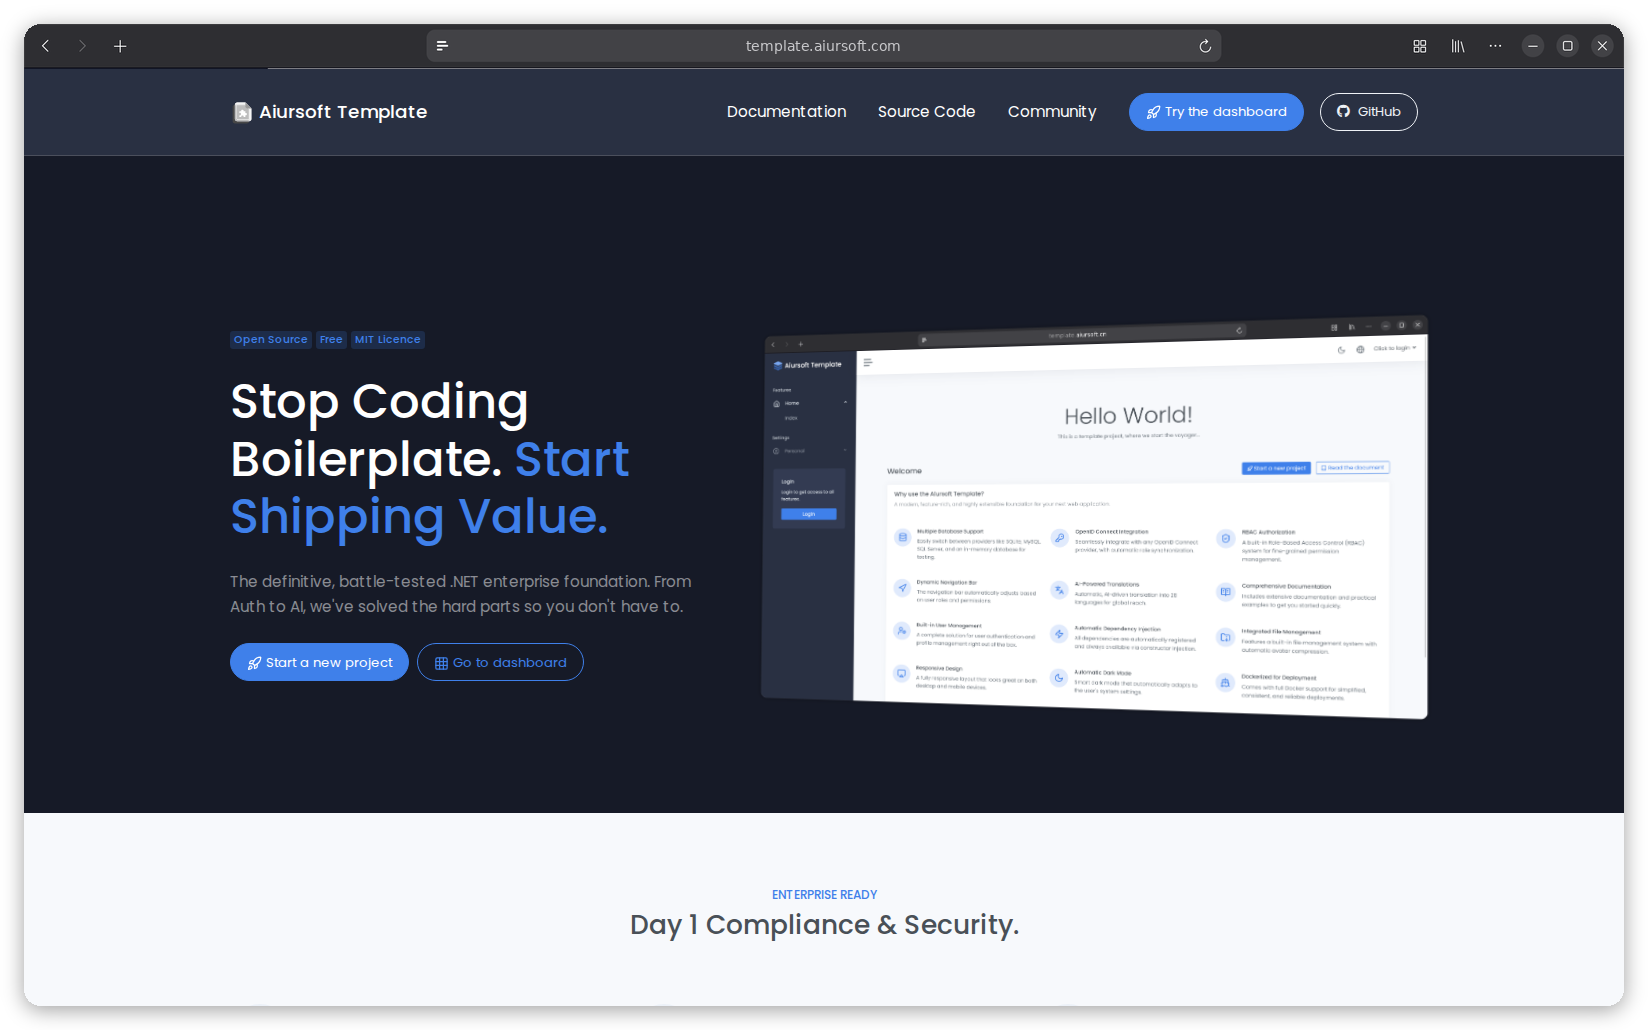
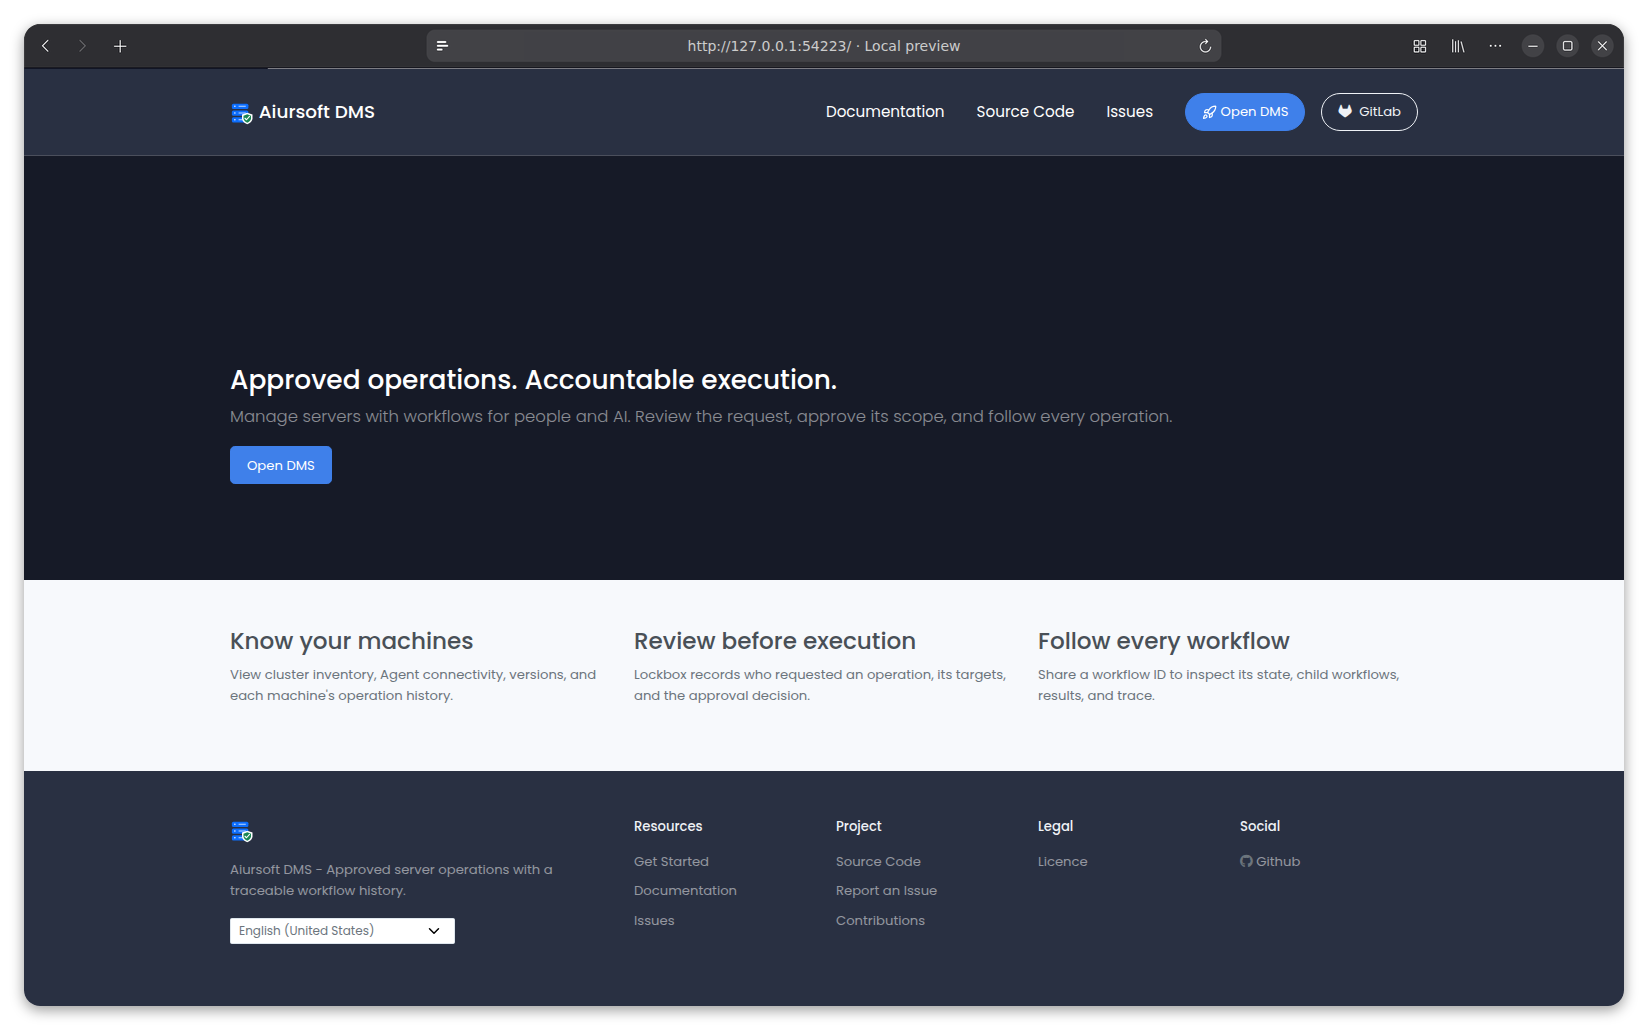
Align DMS documentation and branding with ASP.NET projects

diff --git a/src/Aiursoft.DMS/Configuration/SettingsMap.cs b/src/Aiursoft.DMS/Configuration/SettingsMap.cs
@@ -28,7 +28,7 @@ public class SettingsMap
             Name = Localizer["Project Name"],
             Description = Localizer["The name of the project displayed in the frontend."],
             Type = SettingType.Text,
-            DefaultValue = "Aiursoft Template"
+            DefaultValue = "Aiursoft DMS"
         },
         new GlobalSettingDefinition
         {

diff --git a/src/Aiursoft.DMS/Views/Shared/Components/MarketingNavbar/MarketingNavbarViewModel.cs b/src/Aiursoft.DMS/Views/Shared/Components/MarketingNavbar/MarketingNavbarViewModel.cs
@@ -2,6 +2,6 @@ namespace Aiursoft.DMS.Views.Shared.Components.MarketingNavbar;
 
 public class MarketingNavbarViewModel
 {
-    public string ProjectName { get; set; } = "Aiursoft Template";
+    public string ProjectName { get; set; } = "Aiursoft DMS";
     public string LogoUrl { get; set; } = "/logo.svg";
 }

diff --git a/README.md b/README.md
@@ -1,52 +1,94 @@
 # DMS
 
-Approved server operations for humans and AI. A Controller manages inventory, Lockbox approvals and workflow history. Linux Agents connect outward over WebSocket; managed machines need no SSH service or internet access.
+[![MIT licensed](https://img.shields.io/badge/license-MIT-blue.svg)](./LICENSE)
+[![Pipeline stat](https://badge-proxy.aiursoft.com/aiursoft/dms/badges/master/pipeline.svg)](https://gitlab.aiursoft.com/aiursoft/dms/-/pipelines)
+[![Test Coverage](https://badge-proxy.aiursoft.com/aiursoft/dms/badges/master/coverage.svg)](https://gitlab.aiursoft.com/aiursoft/dms/-/pipelines)
+[![S360 compliance](https://s360.aiursoft.com/badge.svg?project=aiursoft%2Fdms)](https://s360.aiursoft.com/SupplyChain?tab=projects&project=aiursoft%2Fdms&scope=baseline&ecosystem=all)
+[![Man hours](https://manhours.aiursoft.com/r/github.com/aiursoftweb/dms.svg)](https://manhours.aiursoft.com/r/github.com/aiursoftweb/dms.html)
 
-The initial workflows are performance information, service restart, machine inventory and registration. Arbitrary commands are not exposed. Every operational CLI command submits a Lockbox; inspection and approval commands use authenticated management APIs.
+DMS is a server operations platform for humans and AI, built on Aiursoft Template. Request an operation, approve its scope through Lockbox, and follow its execution across your machines.
 
-## Run
+![DMS local preview](./screenshot.png)
 
-Build with the .NET 10 SDK:
+## What is DMS?
+
+- A web console for machine inventory, approvals and workflow history.
+- A CLI and reusable SDK for requesting operations and inspecting their results.
+- Linux Agents that connect outward to the Controller over WebSocket. Managed machines need access to the Controller, without requiring internet access or an SSH service.
+- Cluster permissions with independent request, automatic approval and approval rights for five risk levels.
+- Persistent workflow state, parent/child callstacks and ClickHouse trace archives.
+- Shared Aiursoft accounts, OIDC, roles, themes and localization.
+
+The current workflows cover performance information, service restart, machine inventory and registration. Operational commands submit a Lockbox; inspection and approval commands use authenticated management APIs. Arbitrary shell commands are not exposed.
+
+## Run manually
+
+Requires [.NET 10 SDK](https://dotnet.microsoft.com/download/dotnet/10.0) and [Node.js](https://nodejs.org/).
+
+```sh
+cd src/Aiursoft.DMS/wwwroot
+npm ci
+npm run build
+cd ..
+dotnet run --project Aiursoft.DMS.csproj -- --urls http://localhost:5000
+```
+
+Open `http://localhost:5000`. The default local administrator is `admin@default.com` with password `Admin@123456!`. Change this password before exposing a deployment.
+
+The defaults use SQLite and local accounts. Open **Cluster access** to configure the first cluster and its permissions, then create a personal key under **API Keys**. See [CLI and Agent setup](./docs/cli-and-agent.md) for registration and the first operation.
+
+## Run in Microsoft Visual Studio
+
+Open `Aiursoft.DMS.sln`, select `Aiursoft.DMS` as the startup project, and press **F5**. Install the frontend dependencies as described above first.
+
+## Run in Docker
+
+Build a Controller image from the repository root:
+
+```sh
+docker build --tag dms:local .
+docker run -d --name dms --restart unless-stopped \
+  -p 8080:5000 -v dms-data:/data dms:local
+```
+
+Open `http://localhost:8080`. Persist `/data` for the default SQLite database, configuration, uploaded files and workflow state. The health endpoint is `/health`.
+
+| Property | Value |
+| --- | --- |
+| Container port | `5000` |
+| Binary directory | `/app` |
+| Persistent data | `/data` |
+| Configuration | `/data/appsettings.json` |
+| Workflow state | `/data/dms-state` |
+
+The shared CI validates Linux amd64 and arm64 images. Once a successful master pipeline publishes `aiursoft/dms:latest`, the standard [installer](./install.sh) can install that image with a chosen port:
+
+```sh
+sudo bash install.sh 8080
+```
+
+The Controller image does not install Agents on managed machines. Build and distribute the Agent separately using the [Agent setup guide](./docs/cli-and-agent.md#run-an-agent).
+
+## Configuration
+
+Run one Controller with a persistent business database and workflow state directory. Configure ClickHouse for detailed workflow traces before using the service for ongoing operations. Local accounts are the development default; OIDC is an explicit deployment setting.
+
+See [configuration and persistence](./docs/configuration.md) for database settings, trace storage, authentication, recovery and cancellation behavior.
+
+## How to contribute
+
+Report bugs and feature requests through the [issue tracker](https://gitlab.aiursoft.com/aiursoft/dms/-/issues). Use a feature branch or fork and submit a merge request.
+
+Build and test from the repository root:
 
 ```sh
 dotnet build Aiursoft.DMS.sln
-dotnet run --project src/Aiursoft.DMS/Aiursoft.DMS.csproj
+dotnet test Aiursoft.DMS.sln
+./lint.sh
 ```
 
-Use the Template local administrator for initial setup, change its password, then open **Cluster access** to create a cluster and assign each risk level's request, automatic approval and approval permissions. Self approval is a separate user setting. Create a personal key under **API Keys**.
+NugetNinja maintains the shared Template files and dependency conventions through `ninja.yaml`. External contributors use the checked-in public NuGet/npm sources; company CI selects the internal build sources separately.
 
-```sh
-export DMS_SERVER=https://dms.example.com
-export DMS_API_KEY='<personal-key>'
-dotnet run --project src/Aiursoft.DMS.Client -- cluster add-machine --cluster-id <cluster-id> --name server-01 --reason 'Register server'
-```
+## Credits
 
-After approval, inspect the operation result for the machine ID. Issue its Agent key under **Cluster access**. Install the published Agent and .NET 10 runtime using your internal distribution channel. Run it with a dedicated persistent private state directory:
-
-```sh
-export DMS_CONTROLLER=https://dms.example.com
-export DMS_MACHINE_KEY='<agent-key>'
-export DMS_STATE_PATH=/var/lib/dms-agent
-dotnet Aiursoft.DMS.Agent.dll
-```
-
-The machine is bound to its state directory's installation identity. Preserve that directory across upgrades. A second installation with the same key is rejected until pending operations have been reconciled.
-
-```sh
-dotnet dms.dll machine performance info --cluster-id <cluster-id> --machine-id <machine-id> --reason 'Inspect capacity'
-dotnet dms.dll machine systemctl restart --cluster-id <cluster-id> --machine-id <machine-id> --service example.service --reason 'Approved maintenance'
-dotnet dms.dll lockbox get --id <lockbox-id>
-dotnet dms.dll lockbox approve --id <lockbox-id> --reason 'Maintenance window confirmed'
-dotnet dms.dll operation get-callstack --id <workflow-id>
-dotnet dms.dll operation get-trace --id <workflow-id>
-```
-
-Use `--all-machines` to freeze the cluster's current machines into a request, `--request-id` when retrying the same submission, and `--json` for automation. The five risk levels have independent permissions in each cluster. A request can target only one cluster.
-
-## Persistence
-
-Run one Controller with persistent database and `Dms:StatePath` storage. Configure `Dms:Clickhouse:Enabled` and `Dms:Clickhouse:ConnectionString` for workflow traces; application logging uses the separate Template logging settings. Detailed traces are spooled on disk and archived into `DmsWorkflowTrace`, not the relational business database. Unavailable storage applies backpressure instead of dropping entries.
-
-Unstarted tasks resume dispatch. Started tasks with unknown outcomes become `NeedsVerification` and are never automatically rerun. `kill-workflow` requires a new Lockbox; cancellation does not undo side effects or prove that a systemd job was rolled back.
-
-The Web UI provides machines, approval context, workflow history, callstacks and trace. Query access follows cluster membership. Default development authentication is Local; configure OIDC through the existing Template settings when deploying.
+Built on [Aiursoft Template](https://github.com/aiursoftweb/template). Licensed under the [MIT License](./LICENSE).

diff --git a/docs/cli-and-agent.md b/docs/cli-and-agent.md
@@ -1,0 +1,84 @@
+# CLI and Agent setup
+
+[Back to README](../README.md)
+
+The Controller provides the web UI and HTTP API. The CLI submits requests and inspects results; an Agent runs approved machine workflows on its own Linux host. The SDK is available in [Aiursoft.DMS.SDK](../src/Aiursoft.DMS.SDK).
+
+## Build the clients
+
+From the repository root, use the .NET 10 SDK to publish the CLI and Agent:
+
+```sh
+dotnet publish src/Aiursoft.DMS.Client -c Release \
+  --no-self-contained -p:UseAppHost=false -o ./bin/client
+dotnet publish src/Aiursoft.DMS.Agent -c Release \
+  --no-self-contained -p:UseAppHost=false -o ./bin/agent
+dotnet ./bin/client/dms.dll --help
+```
+
+These are framework-dependent applications. Install the .NET 10 runtime on each host that runs one, and distribute the entire publish directory. The CLI and Agent are not currently packaged as installable NuGet tools.
+
+## Configure access
+
+1. Sign in to the Controller as an administrator and change the initial password.
+2. Open **Cluster access**, create a cluster, and grant its members the appropriate request, automatic approval and approval permissions for each risk level.
+3. Configure self approval separately for users allowed to approve their own requests.
+4. Open **API Keys** and create a personal key for CLI access.
+
+Configure the CLI with your own Controller URL and personal key:
+
+```sh
+export DMS_SERVER=https://dms.example.com
+export DMS_API_KEY='<personal-key>'
+```
+
+`--server` and `--api-key` can also be supplied to individual commands. Machine keys are for Agents and cannot be used as personal keys.
+
+## Register a machine
+
+Replace the example IDs with the IDs from your deployment:
+
+```sh
+dotnet ./bin/client/dms.dll cluster add-machine \
+  --cluster-id <cluster-id> --name server-01 --reason 'Register server'
+dotnet ./bin/client/dms.dll lockbox get --id <lockbox-id>
+dotnet ./bin/client/dms.dll lockbox approve \
+  --id <lockbox-id> --reason 'Registration approved'
+```
+
+The submission returns a Lockbox ID. A permitted approver must approve it unless the requester's cluster permission allows automatic approval. After approval, inspect the operation result for the machine ID. Issue that machine's Agent key under **Cluster access**.
+
+## Run an Agent
+
+Copy the Agent publish directory to the managed Linux host and provide a private persistent state directory writable by the Agent's account:
+
+```sh
+export DMS_CONTROLLER=https://dms.example.com
+export DMS_MACHINE_KEY='<agent-key>'
+export DMS_STATE_PATH=/var/lib/dms-agent
+dotnet /opt/dms-agent/Aiursoft.DMS.Agent.dll
+```
+
+The Agent opens the WebSocket connection to the Controller. It does not require inbound SSH, internet access or a database connection; the Controller must remain reachable. The Agent account needs the operating-system permissions required by the workflows you intend to run.
+
+The machine is bound to the installation identity in its state directory. Preserve this directory across upgrades. A second installation with the same key is rejected until pending operations have been reconciled.
+
+## Request and inspect operations
+
+```sh
+dotnet ./bin/client/dms.dll cluster get-machines \
+  --cluster-id <cluster-id> --reason 'Inspect inventory'
+dotnet ./bin/client/dms.dll machine performance info \
+  --cluster-id <cluster-id> --machine-id <machine-id> --reason 'Inspect capacity'
+dotnet ./bin/client/dms.dll machine systemctl restart \
+  --cluster-id <cluster-id> --machine-id <machine-id> \
+  --service example.service --reason 'Approved maintenance'
+dotnet ./bin/client/dms.dll operation get-callstack --id <workflow-id>
+dotnet ./bin/client/dms.dll operation get-trace --id <workflow-id>
+```
+
+Each operational command creates a Lockbox before execution. The Lockbox ID, its own workflow ID and the approved operation's workflow ID are distinct; use the returned ID for the corresponding inspection command. Inspection and `lockbox approve`/`deny` use authenticated management APIs without creating another Lockbox.
+
+Use `--all-machines` instead of `--machine-id` to freeze the cluster's current machines into a request. A request targets only one cluster. Use `--request-id` when retrying the same submission and `--json` for automation.
+
+`operation kill-workflow --cluster-id <cluster-id> --id <workflow-id> --reason 'Stop operation'` creates a new Lockbox. Cancellation requests cooperative termination; it does not roll back completed side effects. See [recovery and cancellation](./configuration.md#recovery-and-cancellation).

diff --git a/docs/configuration.md b/docs/configuration.md
@@ -1,0 +1,55 @@
+# Configuration and persistence
+
+[Back to README](../README.md)
+
+DMS uses the standard Aiursoft Template database, account, OIDC, file storage and application logging settings. The defaults run with SQLite and local accounts. Shared configuration is described in the [Template documentation](https://template-docs.aiursoft.com/).
+
+## Controller settings
+
+ASP.NET Core environment overrides use double underscores, such as `Dms__StatePath` or `AppSettings__AuthProvider`.
+
+| Setting | Default | Purpose |
+| --- | --- | --- |
+| `ConnectionStrings:DbType` | `Sqlite` | Select SQLite or MySQL. |
+| `ConnectionStrings:DefaultConnection` | `DataSource=app.db;Cache=Shared` | Business database containing inventory, access, Lockboxes and workflow metadata. |
+| `Storage:Path` | `/tmp/data` | Shared Template file storage. |
+| `AppSettings:AuthProvider` | `Local` | Local accounts; set `OIDC` and configure `AppSettings:OIDC` to use an identity provider. |
+| `Dms:StatePath` | `dms-state` | Persistent Controller workflow state and detailed trace backlog. |
+| `Dms:Clickhouse:Enabled` | `false` | Enable archival and querying of detailed workflow traces. |
+| `Dms:Clickhouse:ConnectionString` | Local ClickHouse HTTP endpoint | Connection to the trace archive; configure the actual host, database and credentials before enabling it. |
+
+For example, after preparing a reachable ClickHouse database:
+
+```text
+Dms__StatePath=/var/lib/dms/state
+Dms__Clickhouse__Enabled=true
+Dms__Clickhouse__ConnectionString=Host=clickhouse;Protocol=http;Port=8123;Username=dms;Password=<secret>;Database=dms
+```
+
+Keep real credentials outside Git. `Logging:Clickhouse` controls ordinary application logs separately from the DMS workflow trace archive.
+
+## Persistent storage
+
+Run one Controller with its own persistent database and `Dms:StatePath` directory. The current design does not support multiple Controllers sharing a workflow store.
+
+The Docker image stores its first-start configuration in `/data/appsettings.json` and reuses it on later starts. Its defaults place the SQLite database, Template file storage and `Dms__StatePath=/data/dms-state` under `/data`. Keep that volume across container replacement. If you override any paths or use MySQL, persist those stores separately as well.
+
+Detailed workflow traces are first written to the Controller's disk queue, then archived to the ClickHouse table `DmsWorkflowTrace`. They are not stored in the relational business database. Prepare ClickHouse before using DMS for ongoing operations. With archival disabled or unavailable, traces remain in the disk backlog; unavailable storage applies backpressure rather than silently dropping entries.
+
+Preserve each Agent's private `DMS_STATE_PATH` directory independently of the Controller volume. It contains its installation identity and task journal. See [Agent setup](./cli-and-agent.md#run-an-agent).
+
+## Access and authentication
+
+Configure local accounts or OIDC through the existing Template settings. When deploying with OIDC, set `AppSettings__AuthProvider=OIDC` explicitly and provide the identity provider settings; Local remains the source default.
+
+Cluster membership controls which machines, Lockboxes and workflows a user can inspect. Each cluster grants request, automatic approval and approval capabilities independently at each of the five risk levels. A higher risk permission does not implicitly grant a lower risk permission. Self approval is a separate user setting.
+
+Personal API keys identify CLI users. Machine API keys identify Agents. Keep both types private and revoke them through their management pages when no longer needed.
+
+## Recovery and cancellation
+
+Unstarted tasks resume dispatch after a Controller restart. A started task whose result cannot be confirmed becomes `NeedsVerification` and is never automatically rerun. Investigate its actual machine state before deciding what to do next.
+
+`operation kill-workflow` requires a new Lockbox. Once approved, it requests cooperative cancellation of the target workflow. Cancellation does not undo completed side effects or prove that an action already handed to systemd was rolled back.
+
+Use workflow IDs, parent/child callstacks, results and trace together when investigating an interrupted operation.
